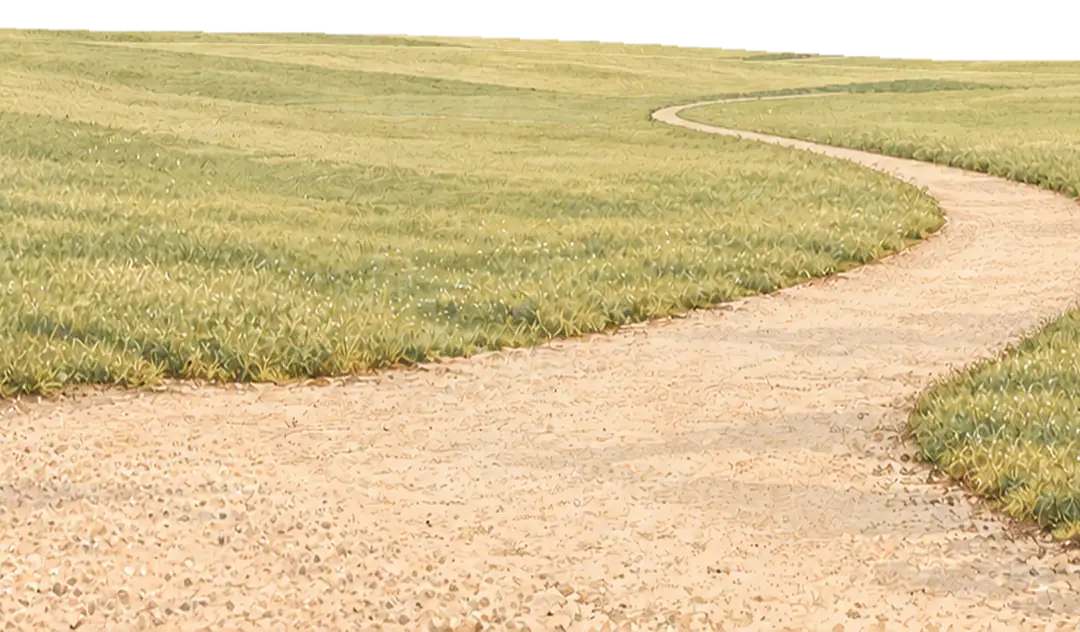
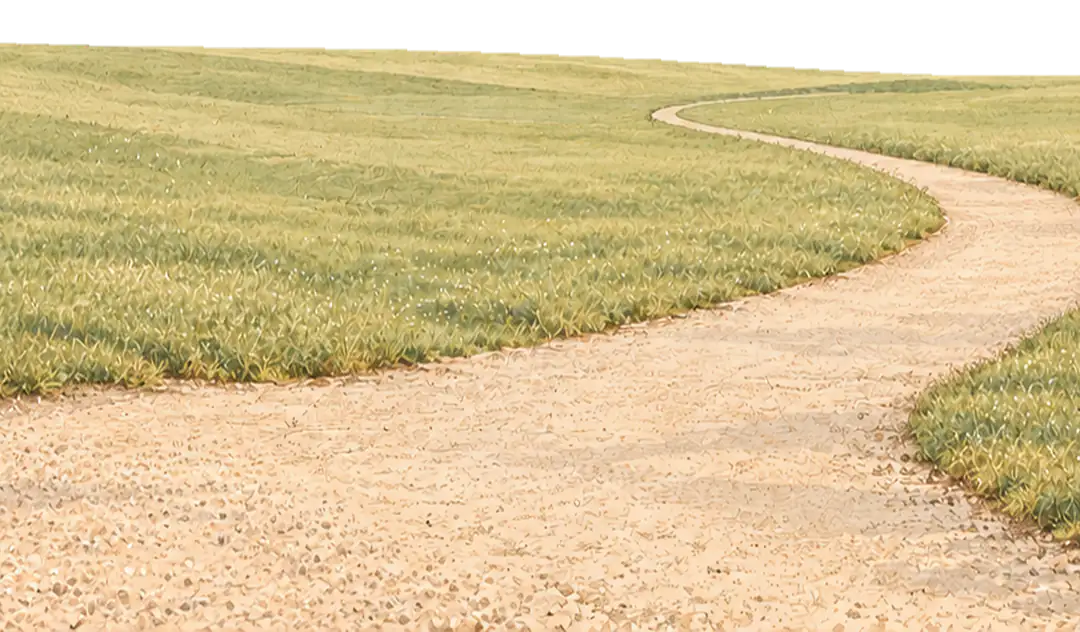
fix(garden): drop the lawn's bright rim under the far treeline

Changed region(s): [[0.0, 0.0301, 1.0, 0.1203]]

diff --git a/src/garden.css b/src/garden.css
@@ -234,6 +234,12 @@
 }
 /* layers end */
 
+/* the lawn plate paints a bright rim along the far trees' feet, so the lawn files are cut just below it and the
+   hero's far trees step 20 canvas px down onto the grass. the closing park has no lawn and keeps the plate's place */
+.garden .g-far {
+  translate: 0 calc(20 * var(--c));
+}
+
 /* the standalone tree stands with its trunk base at canvas (190, 863) (44.6% across its image). on short, wide
    panels the canvas sits high and its crown would reach the header, so its height is capped to end 96 px below the
    panel top; it then shrinks around the trunk base, which stays where it stands */
